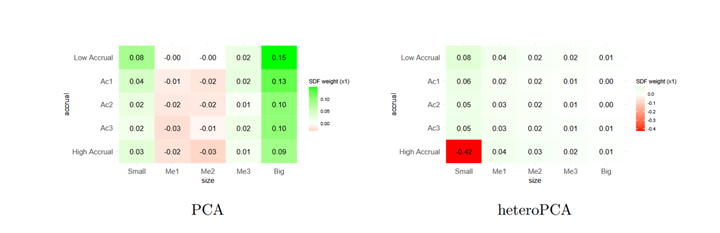
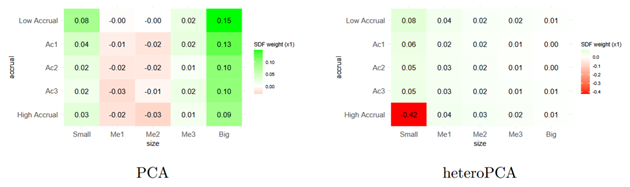
Move paper figures to the right, enlarge them, trim heteroPCA whitespace
* Paper text now sits on the left and the figure on the right. The change is
  made in the source order (body before figure) rather than with CSS `order`,
  so screen readers and the single-column mobile layout both lead with the
  title instead of the illustration.
* Figure column goes from 19rem to 24rem, about 25% larger. The mid
  breakpoint goes 12rem -> 15rem to match.
* Trimmed heteropca.png. Measuring the non-white bounding box showed 37.4% of
  that image was dead margin (63px left, 43px right, 45px top) against 4.9%
  and 10.4% for the other two, which is why it alone looked adrift in its
  frame. Cropped to the content plus an 8px margin: 720x233 -> 630x187. The
  other two were already tight and are untouched.
* The numbered plate for papers with no figure moves from 4:3 to 2:1, so it
  reads as a modest placeholder rather than a large empty box at the wider
  column size.
* On mobile the figure now sits under the text, so its cap goes from 7rem to
  22rem — a 7rem thumbnail only made sense when it was beside the text.

diff --git a/_includes/paper.html b/_includes/paper.html
@@ -35,23 +35,12 @@
 <li class="paper" id="{{ p_id }}">
   <div class="paper__grid">
 
-    <figure class="paper__figure">
-      {% if p_image != "" %}
-        {% if p_image contains "://" %}{% assign img_src = p_image %}{% else %}{% assign img_src = p_image | prepend: "/images/" | prepend: base_path %}{% endif %}
-        {% comment %}
-          The title below is the primary link, so the thumbnail is taken out of
-          the tab order either way. If image_alt describes the figure, the link
-          keeps that description as its accessible name; with no alt text the
-          link would be unlabelled, so it is hidden from assistive tech instead.
-        {% endcomment %}
-        {% if p_url != "" %}<a href="{{ p_url }}" tabindex="-1"{% if p_alt == "" %} aria-hidden="true"{% endif %}>{% endif %}
-          <img class="paper__thumb" src="{{ img_src }}" alt="{{ p_alt | escape }}" loading="lazy" decoding="async">
-        {% if p_url != "" %}</a>{% endif %}
-      {% else %}
-        <div class="paper__plate" aria-hidden="true"></div>
-      {% endif %}
-    </figure>
-
+    {% comment %}
+      Body first in the source, figure second. The grid places the figure on
+      the right on wide screens; keeping this order means screen readers and
+      the single-column mobile layout both lead with the paper title rather
+      than with its illustration.
+    {% endcomment %}
     <div class="paper__body">
 
       <h3 class="paper__title">
@@ -101,5 +90,23 @@
       {% endif %}
 
     </div>
+
+    <figure class="paper__figure">
+      {% if p_image != "" %}
+        {% if p_image contains "://" %}{% assign img_src = p_image %}{% else %}{% assign img_src = p_image | prepend: "/images/" | prepend: base_path %}{% endif %}
+        {% comment %}
+          The title above is the primary link, so the figure is taken out of
+          the tab order either way. If image_alt describes the figure, the link
+          keeps that description as its accessible name; with no alt text the
+          link would be unlabelled, so it is hidden from assistive tech instead.
+        {% endcomment %}
+        {% if p_url != "" %}<a href="{{ p_url }}" tabindex="-1"{% if p_alt == "" %} aria-hidden="true"{% endif %}>{% endif %}
+          <img class="paper__thumb" src="{{ img_src }}" alt="{{ p_alt | escape }}" loading="lazy" decoding="async">
+        {% if p_url != "" %}</a>{% endif %}
+      {% else %}
+        <div class="paper__plate" aria-hidden="true"></div>
+      {% endif %}
+    </figure>
+
   </div>
 </li>

diff --git a/assets/css/custom.css b/assets/css/custom.css
@@ -829,9 +829,10 @@ hr {
   align-items: start;
 }
 
+/* Text column first, figure second — matching the source order. */
 @media screen and (min-width: 34em) {
   .paper__grid {
-    grid-template-columns: 12rem minmax(0, 1fr);
+    grid-template-columns: minmax(0, 1fr) 15rem;
     gap: 1.75rem;
   }
 }
@@ -840,7 +841,7 @@ hr {
    a size where they can actually be read. */
 @media screen and (min-width: 62em) {
   .paper__grid {
-    grid-template-columns: 19rem minmax(0, 1fr);
+    grid-template-columns: minmax(0, 1fr) 24rem;
     gap: 2.25rem;
   }
 }
@@ -880,13 +881,15 @@ hr {
   border-color: var(--rule-strong);
 }
 
-/* Fallback when no image is supplied: a numbered plate, still a real object */
+/* Fallback when no image is supplied: a numbered plate, still a real object.
+   Kept nearer 2:1 than 4:3 so it reads as a modest placeholder among the real
+   figures rather than as a large empty box now the column is wider. */
 .paper__plate {
   display: flex;
   align-items: center;
   justify-content: center;
   width: 100%;
-  aspect-ratio: 4 / 3;
+  aspect-ratio: 2 / 1;
   background: var(--paper-sunken);
   border: 1px solid var(--rule);
   border-radius: var(--radius);
@@ -901,9 +904,12 @@ hr {
   content: counter(paper, decimal-leading-zero);
 }
 
+/* Single column: the figure sits under the paper's text, so it can be wide
+   enough to actually read rather than the narrow beside-the-text thumbnail. */
 @media screen and (max-width: 33.99em) {
   .paper__figure {
-    max-width: 7rem;
+    max-width: 22rem;
+    margin-top: 0.35rem;
   }
 }
 
